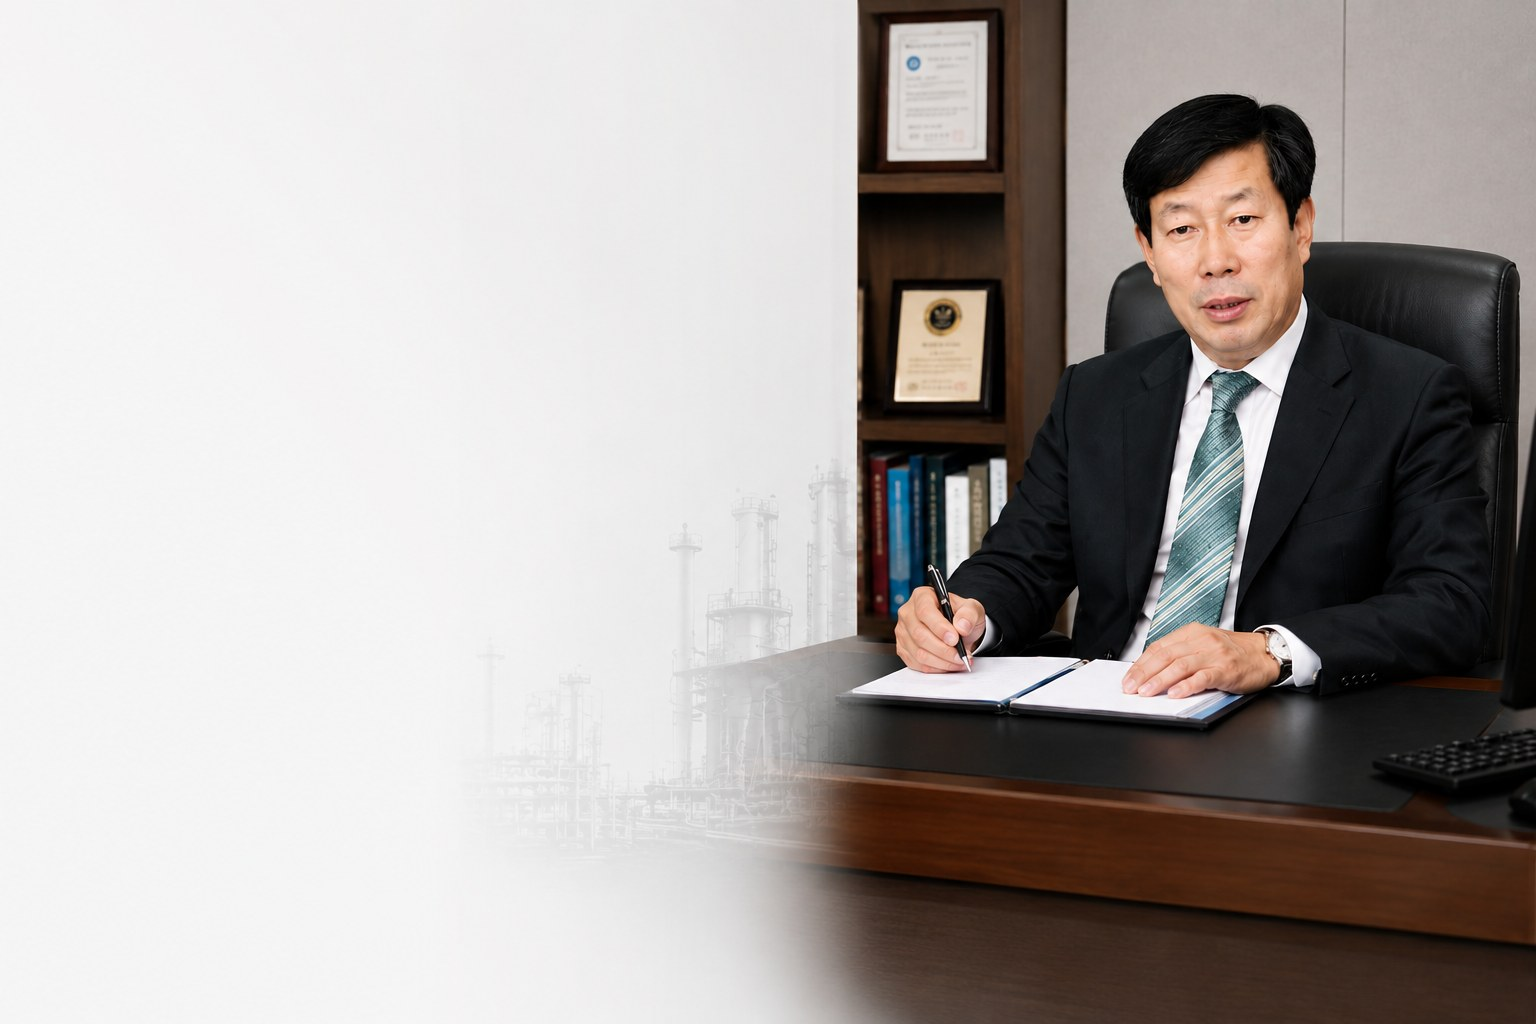
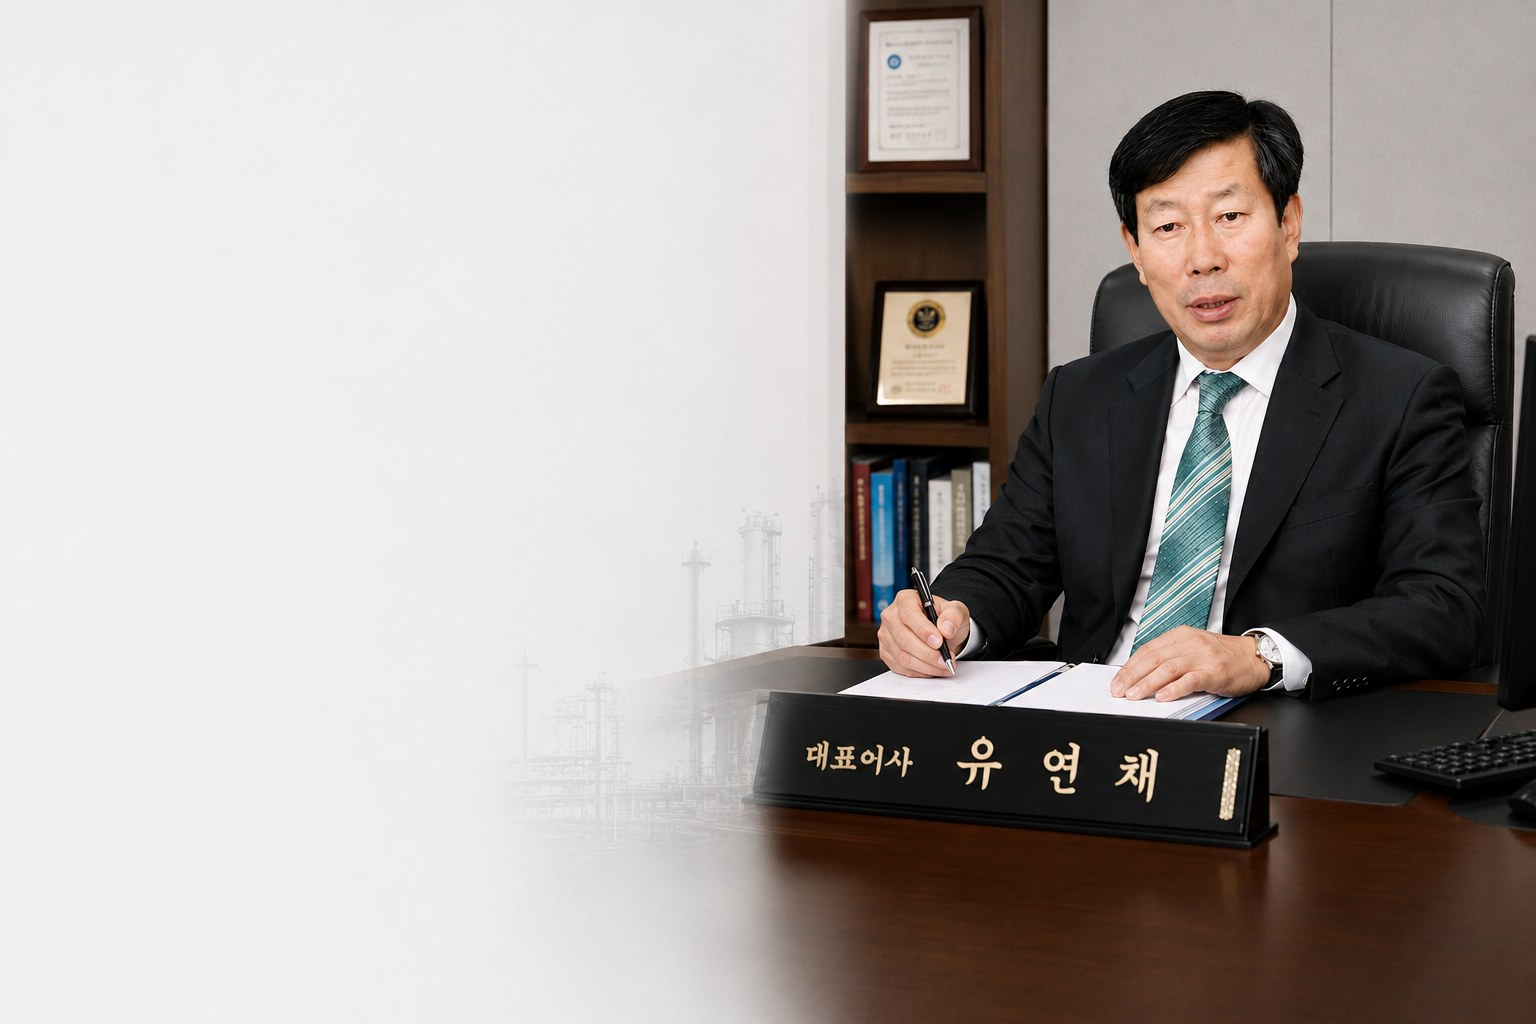
CEO 인사말 대표 배경사진 교체: 명패(대표이사 유연채) 포함 새 컷으로 ceo-message-bg.jpg 갱신·버전 ?v=20260731-2

diff --git a/company.html b/company.html
@@ -127,7 +127,7 @@
     <section class="section" id="greeting">
       <div class="container">
        <div class="cmsg">
-        <img class="cmsg__bg" src="assets/images/site/ceo-message-bg.jpg?v=20260731" alt="한국탄산화학㈜ 대표이사 유연채">
+        <img class="cmsg__bg" src="assets/images/site/ceo-message-bg.jpg?v=20260731-2" alt="한국탄산화학㈜ 대표이사 유연채">
         <div class="cmsg__body">
           <span class="eyebrow" data-i18n="company.greeting.eyebrow">CEO Message</span>
           <h2 class="section__title" data-i18n="company.greeting.title">신뢰와 기술로 가스 산업의 미래를 만듭니다</h2>
